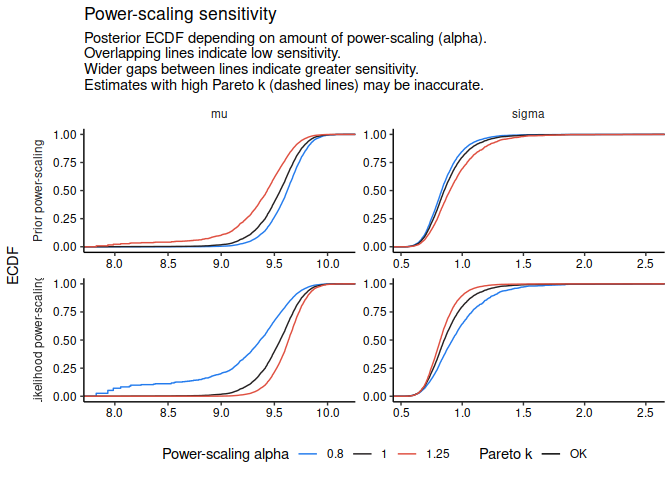
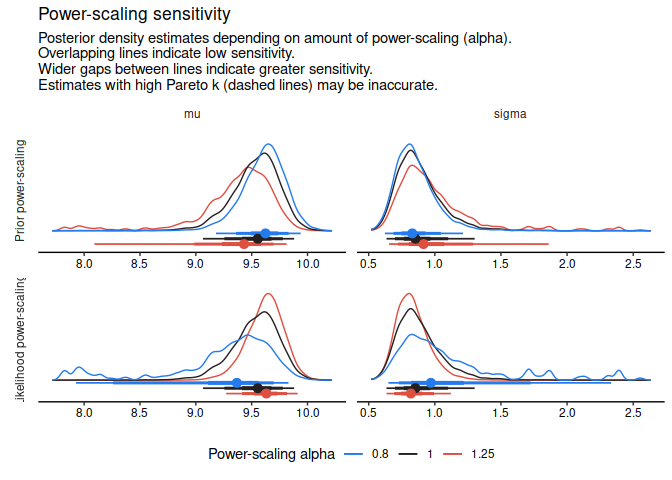
update readme

diff --git a/README.md b/README.md
@@ -120,7 +120,7 @@ plot functions. Estimates with high Pareto-k values may be inaccurate
 and are indicated.
 
 ``` r
-powerscale_plot_ecdf(fit)
+powerscale_plot_dens(fit)
 ```
 
 <img src="man/figures/README-ecdf_plot-1.png" width="70%" height="70%" />
@@ -136,7 +136,7 @@ estimates at the cost of some further computation. This requires the
 [`iwmm` package](https://github.com/topipa/iwmm).
 
 ``` r
-powerscale_plot_ecdf(fit, moment_match = TRUE)
+powerscale_plot_dens(fit, moment_match = TRUE)
 ```
 
 <img src="man/figures/README-ecdf_plot_mm-1.png" width="70%" height="70%" />
